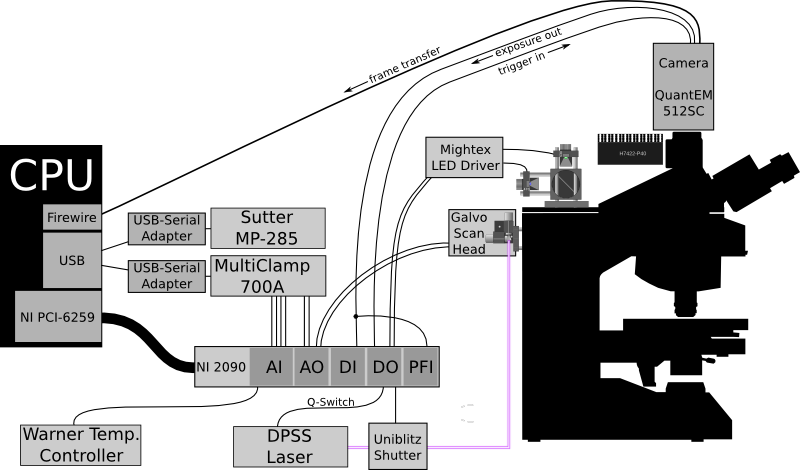
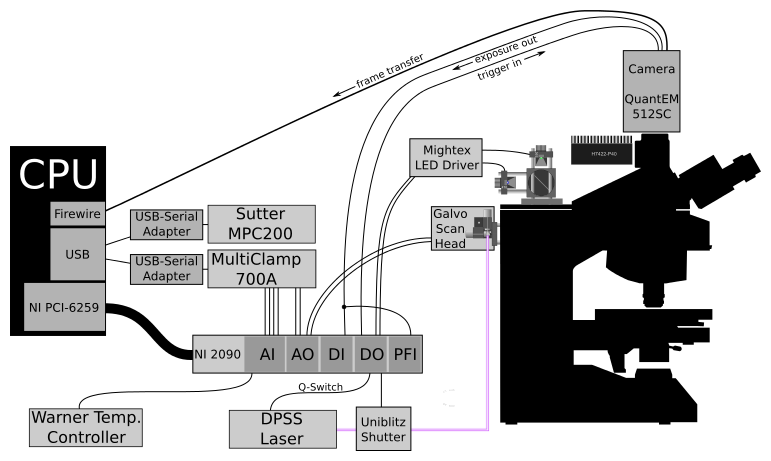
cleanups in hardware, installation started NiDAQ device user documentation

diff --git a/documentation/source/userGuide/hardware.rst b/documentation/source/userGuide/hardware.rst
@@ -4,18 +4,18 @@
 Hardware Configuration
 ======================
 
-It is ultimately up to the experimenter to understand their hardware and decide how best to configure it. For the most part, deciding on a hardware configuration will depend on 1) the capabilities required by the experimenter and 2) the limitations of the hardware. Wherever possible, we have avoided imposing any unnecessary limitations through the software (although there are a few). Below is an example setup which makes use of most of the current capabilities in ACQ4.
+It is ultimately up to the experimenter to understand their hardware and decide how best to configure it. For the most part, deciding on a hardware configuration will depend on 1) the capabilities required by the experimenter and 2) the limitations of the hardware. Wherever possible, we have avoided imposing any unnecessary limitations through the software (although there are a few). Below is an example setup which makes use of many of the current capabilities in ACQ4.
 
 .. figure:: images/hardware.png
 
-    Example hardware configuration.
+    Example hardware configuration for photostimulation experiments.
     
     This setup includes:
         
     #. DAQ (NI 6259) which communicates with and synchronizes most of the hardware
     #. Two-channel MultiClamp
     #. Camera (Photometrics QuantEM 512) with trigger input and exposure output connected to DIO lines on the DAQ
-    #. Sutter MP-285 for reading the position of the microscope stage
+    #. Sutter MPC200 for reading the position of the microscope stage
     #. Scanning galvometric mirrors controlled by DAQ analog output
     #. Laser controlled by two DO lines: one to activate the Q-switch, and one to open a shutter
     #. Digitally controlled LEDs for fluorescence imaging
@@ -50,10 +50,18 @@ That takes care of starting the DAQ and camera simultaneously. In addition, we i
 .. index::
     pair: stage; hardware configuration
     
+Scanning Galvanometric Mirrors
+------------------------------
+
+Scan mirrors may be used in conjunction with one or more laser sources to do scanning laser photostimulation and microscopy. These require only the availability of two analog outputs from the DAQ board and digital or analog control of a Pockels cell, shutter, Q-switch, or some combination of these. In the diagram above, a Zeiss Axioskop FS2 has been modified for use with scanning laser input. 
+    
+    
 Stage Position Control
 ----------------------
 
-Currently there is no way to *control* the position of a Sutter MP-285 stage via ACQ4 (but this is coming soon). It is possible to read the stage position, but with one caveat: the MP-285 is often controlled by a 2 or 3-axis wheel input device. If the computer attempts to read the controller position at the same time the wheel input is in use, it will crash the controller. This is a limitation of the MP-285 which can be worked around, but you will have to contact Sutter for more information. We are currently looking for better solutions (also coming soon).
+ACQ supports the use of the Sutter MPC200 for stage control and position readout. This position information is used in several modules to track the movement of the sample relative to cameras and laser scanning systems. Stage control may also be used to automate the acquisition of tiled image mosaics.
 
-Another option exists for the intrepid-adventurer type (or for those looking for less expensive options). Many electrophysiology stages are controlled by manual micromanipulators. It is possible to read the position of the stage by attaching some variety of rotary encoder to the micromanipulators. A simple option is to use the hardware from a serial mouse to accomplish this task, and ACQ4 will support the use of serial mice as positioning devices. Similarly, an arduino board fitted with rotary encoders could be programmed to output serial mouse protocol.
+The MP-285 is also supported for this purpose, but with one caveat: this device is often controlled by a 2 or 3-axis rotary input device. If the computer attempts to read the controller position at the same time the wheel input is in use, it will crash the controller. This is a limitation of the MP-285 which can be worked around with the addition of a custom microcontroller (see lib/drivers/SutterMP285/mp285_hack).
+
+Another option exists for the intrepid-adventurer type (or for those looking for less expensive options). Many electrophysiology stages are controlled by manual micromanipulators. It is possible to read the position of the stage by attaching some variety of rotary encoder to the micromanipulators. A simple option is to use the hardware from a serial mouse to accomplish this task, and ACQ4 supports the use of serial mice as positioning devices. Similarly, an arduino board fitted with rotary encoders could be programmed to output serial mouse protocol.
 

diff --git a/documentation/source/userGuide/installation.rst b/documentation/source/userGuide/installation.rst
@@ -27,17 +27,17 @@ Download and install all prerequisites in order:
 #. PyQt4: http://www.riverbankcomputing.co.uk/software/pyqt/download  (Be sure to get the version built for python 2.7)
 #. Numpy *and* Scipy: http://scipy.org/Download (look for the 'superpack' files for python 2.7)
 #. h5py:  http://code.google.com/p/h5py/downloads/list   (Windows installer for Python 2.7)
-#. pypasring version *1.5.2* http://sourceforge.net/projects/pyparsing/files/pyparsing/pyparsing-1.5.2/  (later versions do not work yet)
+#. pypasring version <=1.5.2 or >=1.5.6 http://sourceforge.net/projects/pyparsing/files/pyparsing/  
 #. pyserial: http://pypi.python.org/pypi/pyserial
 #. Python Imaging Library: http://www.pythonware.com/products/pil/
 
 I know it is tempting to use easy_install or cygwin for this. Don't. 
 Once all prerequisites are installed, download ACQ4 (stable or development branch):
     
-#. Download and install bazaar: http://wiki.bazaar.canonical.com/Download
+#. Download and install git: http://git-scm.com/downloads
 #. Start a command shell (or powershell or cygwin, if you prefer) and download a copy of the ACQ4 code::
     
-    bzr branch lp:acq4
+    git clone https://github.com/acq4/acq4.git
     
 If all goes well, you now have everything ready and can proceed to configuration.
 
@@ -49,8 +49,8 @@ Linux Installation
 
 Make all your windows-using friends jealous::
 
-    $ sudo apt-get install python-qt4 python-qt4-gl python-qt4-sql python-pyserial python-scipy python-pyparsing python-h5py python-imaging bzr python2.7-dev
-    $ bzr branch lp:acq4
+    $ sudo apt-get install python-qt4 python-qt4-gl python-qt4-sql python-pyserial python-scipy python-pyparsing python-h5py python-imaging git python2.7-dev
+    $ git clone https://github.com/acq4/acq4.git
     
 If you wish to develop modules / devices / analysis, you will probably need a few more packages: qt4-designer pyqt4-dev-tools
     
@@ -83,7 +83,6 @@ You will need to have xcode installed on your machine.
 Download and install the following packages in order:
     
 #. **Python 2.7**: http://python.org (available as a dmg)
-#. **Bazaar**: http://wiki.bazaar.canonical.com/Download (This needs to be done before installing Qt/PyQt)
 #. | **Qt 4.7**: http://qt.nokia.com 
    | Unfortunately the SDK installation does not work on 10.5 - But installing the libraries should be fine. 
    | The libraries are available as dmg
@@ -217,4 +216,4 @@ That's it, you're done and ready to setup configuration files.
 
 Resources:
 http://www.thisisthegreenroom.com/2011/installing-python-numpy-scipy-matplotlib-and-ipython-on-lion/
-http://luke.campagnola.me/code/acq4/download.html
+http://www.acq4.org/download.html

diff --git a/documentation/source/userGuide/devices/NiDAQDevice.rst b/documentation/source/userGuide/devices/NiDAQDevice.rst
@@ -1,16 +1,23 @@
 NiDAQ Devices
 =============
 
-
-
+National Instruments data acquisition devices are often the central hub of control and synchronization in experiments run by ACQ4. Any devices which make use of the NI DAQmx library should work. However, this has only been tested with E- and M-series boards. The PCI-6259 is a good board with 4 analog outputs that supports most current uses for ACQ4.
 
 Configuration Options
 ---------------------
 
+Configuration for this device is very simple. Note that a single 'NiDAQ' device in ACQ4 can be used to control *all* devices which are available for DAQmx using the proper resource strings like '/DevN/channelM'.
 
-Manager Interface
------------------
+::
+    
+    DAQ:  # The name of this device (will be referenced in the configs of other devices)
+        driver: 'NiDAQ'
+        config:
+            # Specifies the default mode to use for all AI ports.
+            # Options are 'RSE', 'NRSE', and 'DIFF'
+            defaultAIMode: 'NRSE'
 
 
-Protocol Runner Interface
--------------------------
+TaskRunner Interface
+--------------------
+

diff --git a/documentation/source/userGuide/modules/Patch.rst b/documentation/source/userGuide/modules/Patch.rst
@@ -44,6 +44,3 @@ All of the parameters will be calulated (and saved if record is pressed). You ca
 bottom plot window by selecting the check box next to the parameter. You can reset the plot by clicking Reset History. Whenever
 you press record, data for all the time that is in the plot window is saved, and incoming data is also saved. 
 
-Data Storage
-============
-
